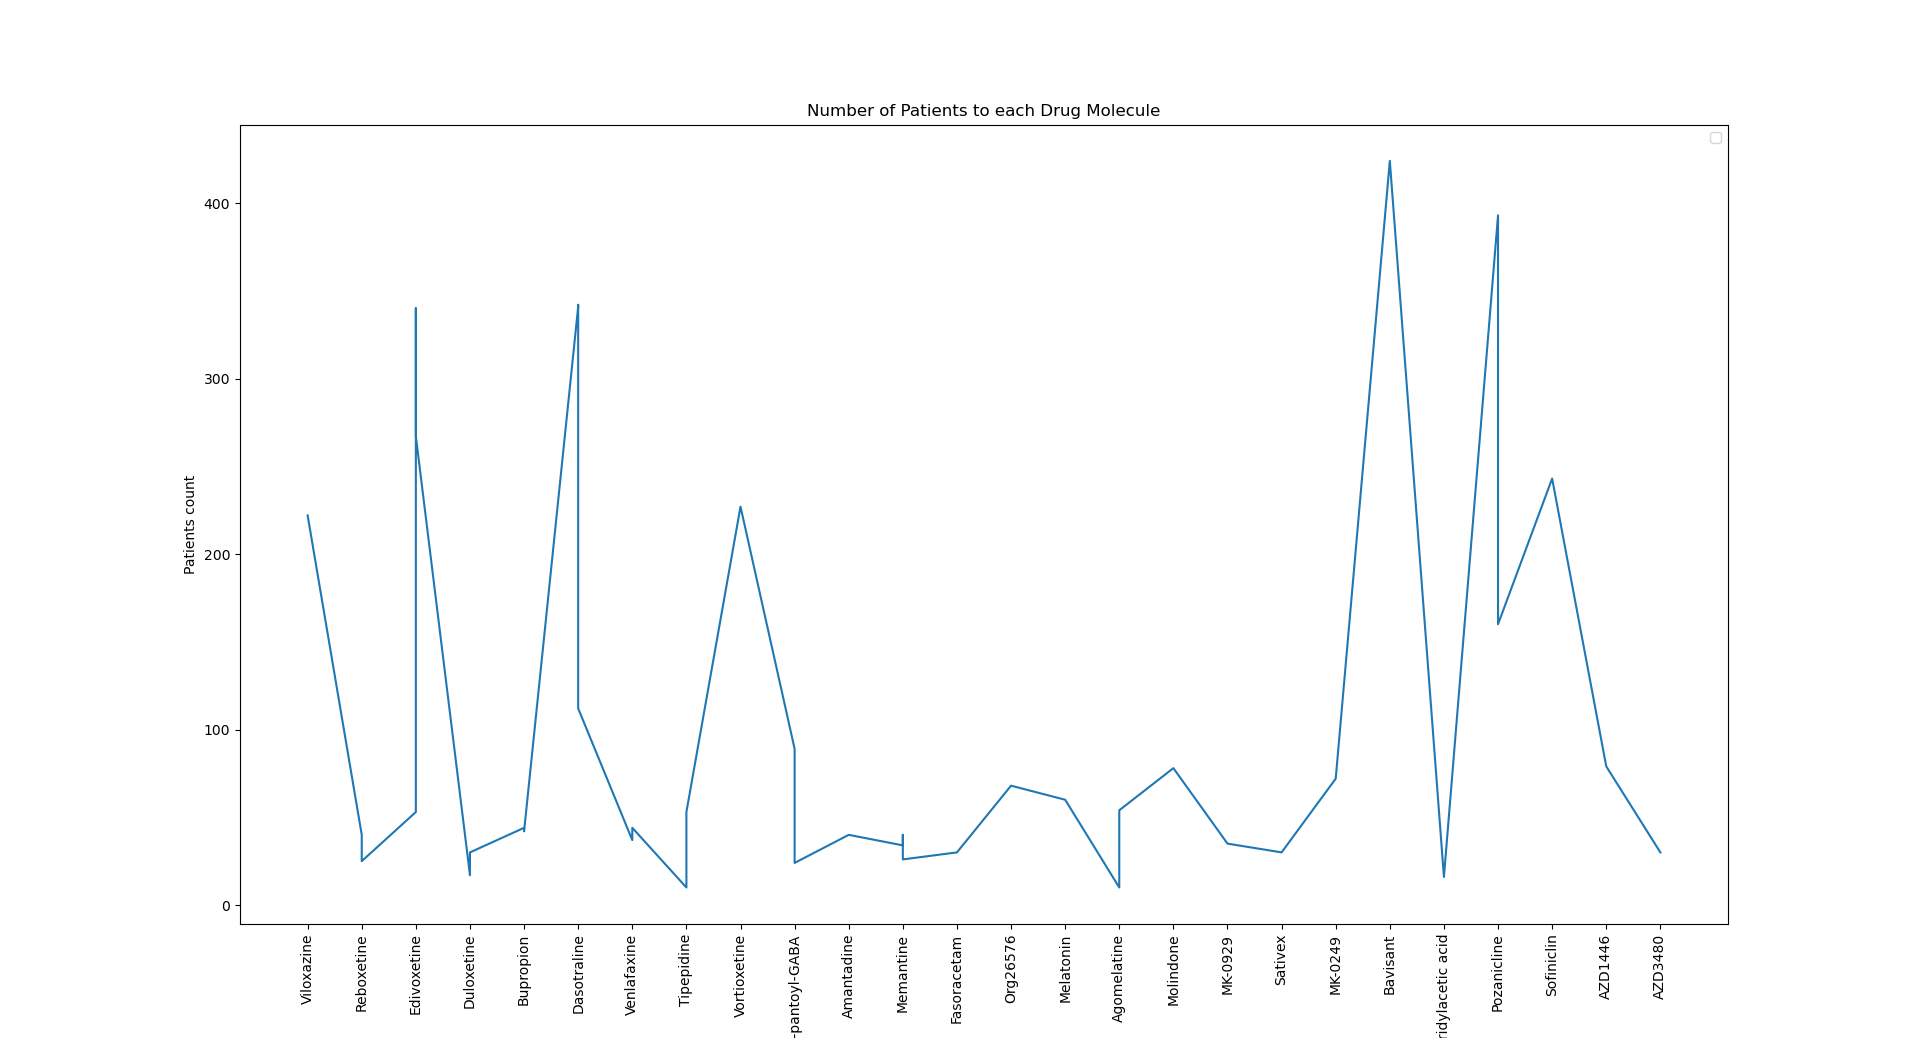
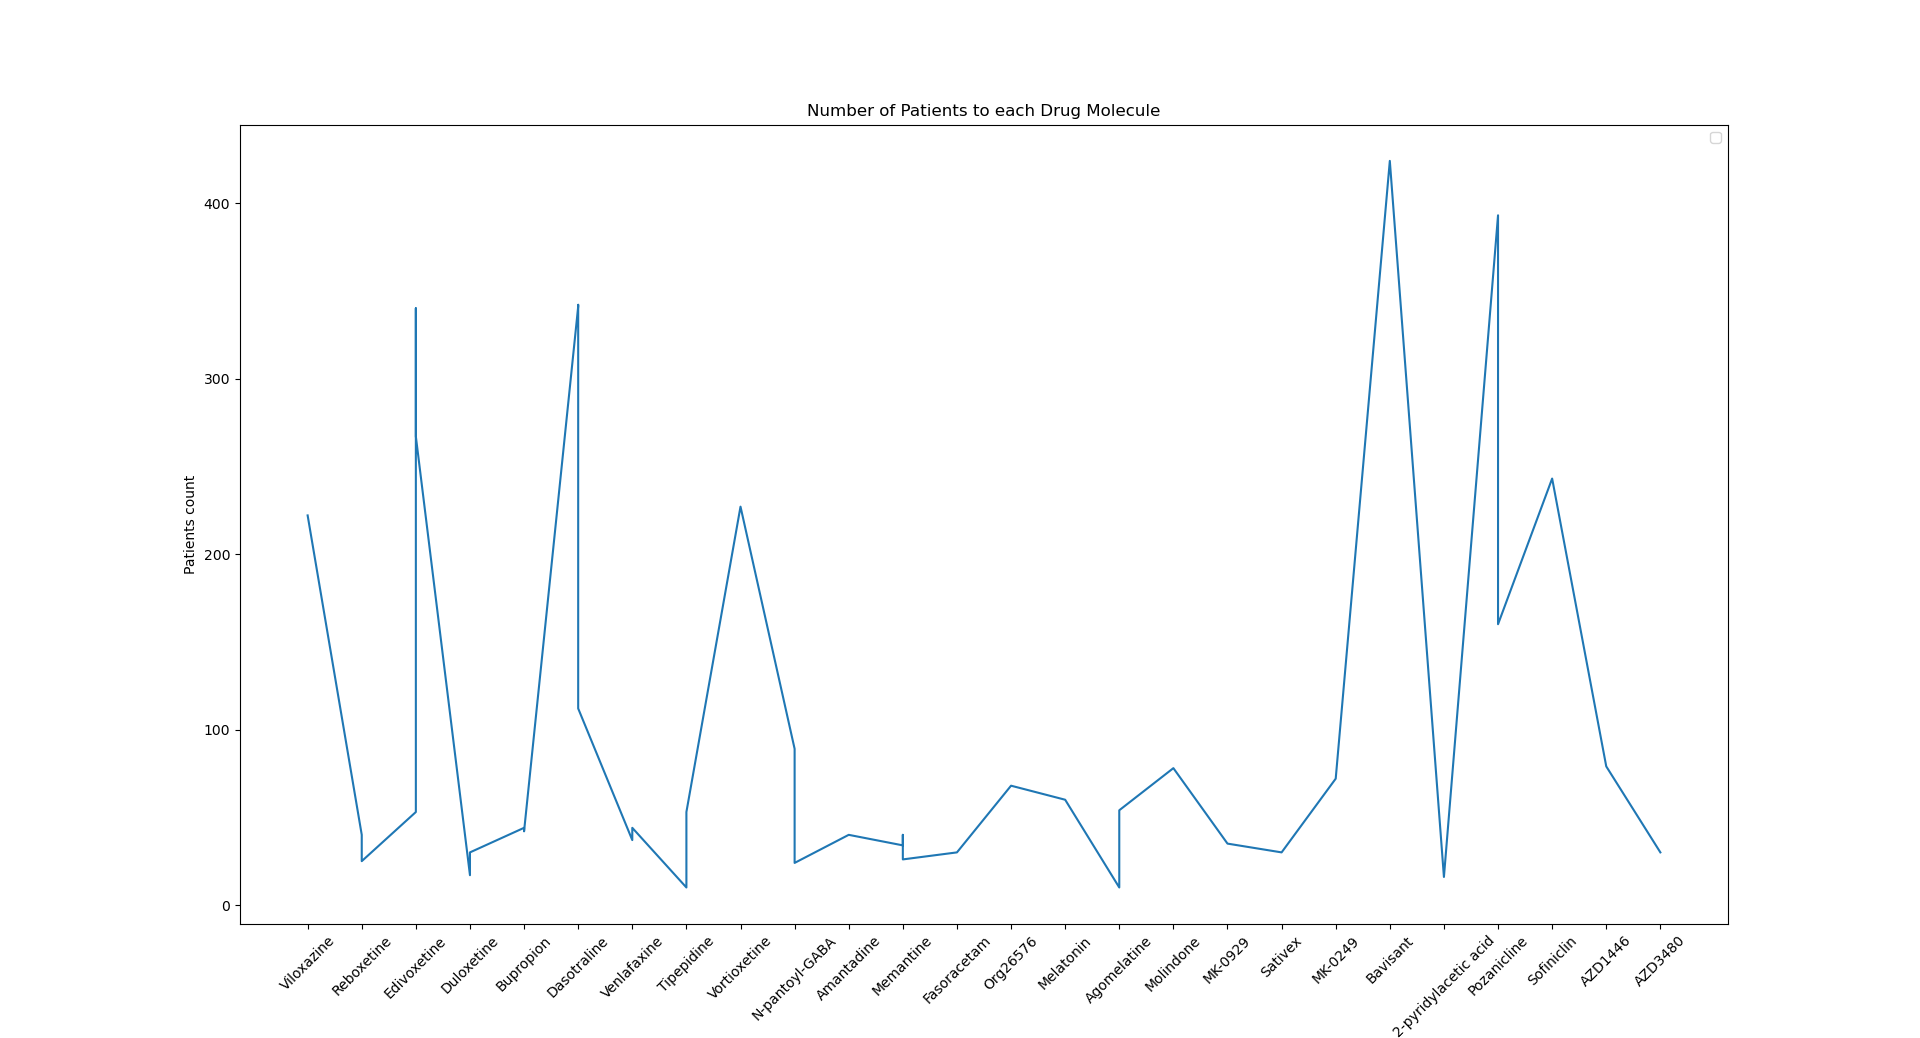
final

Changed region(s): [[0.1562, 0.894, 0.875, 1.0]]

diff --git a/content/snippets/adhd.html b/content/snippets/adhd.html
@@ -15,7 +15,7 @@
 <div class="reveal">
 <div class="slides">
 <section id="sec-title-slide">
-<h1 class="title">ADHD: The Patience</h1><h2 class="author">Dilip G</h2><p class="date">Created: 2023-09-26 Tue 21:45</p>
+<h1 class="title">ADHD: The Patience</h1><h2 class="author">Dilip G</h2><p class="date">Created: 2023-09-26 Tue 21:52</p>
 </section>
 <section id="table-of-contents-section">
 <div id="table-of-contents" role="doc-toc">
@@ -138,7 +138,7 @@
 Significant genetic correlations between ADHD and other traits reveal overlap of genetic risk factors for ADHD across several groups of traits
 </p>
 
-<div id="org68c2d28" class="figure">
+<div id="org32e5a36" class="figure">
 <p><img src="../images/adhd-gen-cor.jpg" alt="adhd-gen-cor.jpg" height="960px" width="900px" />
 </p>
 </div>
@@ -317,7 +317,7 @@ Z-scores are plotted for the 56 genes significantly associated with ADHD. Signif
 
 </ul>
 
-<div id="orgd35af15" class="figure">
+<div id="orgd153d46" class="figure">
 <p><img src="../images/twas-56g.webp" alt="twas-56g.webp" height="960px" />
 </p>
 </div>
@@ -367,7 +367,7 @@ The upper and lower blue lines represent the Bonferroni corrected significance t
 </ul>
 
 
-<div id="org2fd244f" class="figure">
+<div id="org725081d" class="figure">
 <p><img src="../images/mice-human-exon11.jpg" alt="mice-human-exon11.jpg" height="260px" align="left" />
 </p>
 <p><span class="figure-number">Figure 1: </span>(A) Schematic representation of mouse Cry1 protein (top), genomic structure (middle), and aa sequence encoded by exon 11 of human or mouse Cry1 gene (bottom).</p>
@@ -408,7 +408,7 @@ myplot <span style="color: #00bcff;">+</span> <span style="color: #feacd0;">them
 </section>
 <section>
 
-<div id="org610a39c" class="figure">
+<div id="org2549443" class="figure">
 <p><img src="../images/pat-mol.png" alt="pat-mol.png" />
 </p>
 </div>
@@ -438,7 +438,7 @@ myplot <span style="color: #00bcff;">+</span> <span style="color: #feacd0;">them
 plt.plot<span style="color: #ffffff;">(</span>x, y<span style="color: #ffffff;">)</span>
 
 <span style="color: #a8a8a8; font-style: italic;"># </span><span style="color: #a8a8a8; font-style: italic;">rotate the x axis labels to it does not overlap</span>
-plt.xticks<span style="color: #ffffff;">(</span>rotation=90<span style="color: #ffffff;">)</span>
+plt.xticks<span style="color: #ffffff;">(</span>rotation=45<span style="color: #ffffff;">)</span>
 
 plt.title<span style="color: #ffffff;">(</span><span style="color: #79a8ff;">"Number of Patients to each Drug Molecule"</span><span style="color: #ffffff;">)</span>
 
@@ -458,7 +458,7 @@ plt.show<span style="color: #ffffff;">()</span>
 </section>
 <section>
 
-<div id="org6939eb9" class="figure">
+<div id="org62dcd4e" class="figure">
 <p><img src="../images/pat-mol2.png" alt="pat-mol2.png" />
 </p>
 </div>
@@ -472,7 +472,7 @@ plt.show<span style="color: #ffffff;">()</span>
 <span style="color: #00bcff;">library</span><span style="color: #ffffff;">(</span><span style="color: #79a8ff;">"Biostrings"</span><span style="color: #ffffff;">)</span>
 
 <span style="color: #a8a8a8; font-style: italic;">## </span><span style="color: #a8a8a8; font-style: italic;">get fasta file and read the sequence strings</span>
-gene <span style="color: #00bcff;">&lt;-</span> <span style="color: #feacd0;">readDNAStringSet</span><span style="color: #ffffff;">(</span><span style="color: #79a8ff;">"fasta/dusp6-gene.fna"</span><span style="color: #ffffff;">)</span>
+gene <span style="color: #00bcff;">&lt;-</span> <span style="color: #feacd0;">readDNAStringSet</span><span style="color: #ffffff;">(</span><span style="color: #79a8ff;">"../fasta/dusp6-gene.fna"</span><span style="color: #ffffff;">)</span>
 
 <span style="color: #feacd0;">print</span><span style="color: #ffffff;">(</span>gene<span style="color: #ffffff;">)</span>
 
@@ -501,7 +501,7 @@ acgt <span style="color: #00bcff;">&lt;-</span> <span style="color: #feacd0;">gg
 </section>
 <section>
 
-<div id="orgdc91d6c" class="figure">
+<div id="org3318f64" class="figure">
 <p><img src="../images/base-count.png" alt="base-count.png" />
 </p>
 </div>
